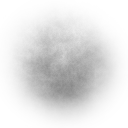
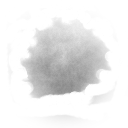
fixed texture alpha

Changed region(s): [[0.125, 0.2812, 0.9062, 0.9062], [0.2812, 0.1875, 0.375, 0.25], [0.375, 0.1562, 0.4062, 0.1875]]

diff --git a/js/Candela.js b/js/Candela.js
@@ -3,6 +3,14 @@ var container, scene, camera, renderer, controls, stats, uniforms_flame, uniform
 var TTL = 3.5;
 var Speed = 10.0;
 var going = true;
+var originalAlpha = 0.6;
+var testAlphaFlame = 0.6;
+var testAlphaSmoke = 0.6;
+var numFlameParticles = 50000;
+var numSmokeParticles = 50000;
+var flameStartingHeight = 101;
+var smokeStartingHeight = 115;
+
 
 $(document).ready(function(){
     var clock = new THREE.Clock();
@@ -55,7 +63,7 @@ function init()
 
     // CONTROLS
     controls = new THREE.OrbitControls( camera, renderer.domElement );
-    controls.minDistance = 100;
+    controls.minDistance = 50;
     controls.maxDistance = 500;
     
     // STATS
@@ -122,8 +130,8 @@ function init()
     var smokeGeometry = new THREE.BufferGeometry();
 
     // Generate initial particle positions
-    var flameData = createFlameParticles(40000);
-    var smokeData = createSmokeParticles(40000);
+    var flameData = createFlameParticles(numFlameParticles);
+    var smokeData = createSmokeParticles(numSmokeParticles);
 
     // add the position to the vertex shader
     flameGeometry.addAttribute('position', new THREE.BufferAttribute(flameData.positions, 3));
@@ -149,7 +157,7 @@ function init()
     uniforms_flame = {
         t: {value: 0.0},
         texture: { type: 't', value: new THREE.TextureLoader().load("images/flame.png") },
-        customOpacity: {value: 0.7},
+        customOpacity: {value: 1.0},
         customColor: {value: flameColor},
         timeLife: {value: TTL},
         speed: {value: Speed},
@@ -163,7 +171,7 @@ function init()
     uniforms_smoke = {
         t: {value: 0.0},
         texture: { type: 't', value: new THREE.TextureLoader().load("images/smokeparticle.png") },
-        customOpacity: {value: 0.7},
+        customOpacity: {value: 1.0},
         customColor: {value: smokeColor},
         timeLife: {value: TTL},
         speed: {value: Speed},
@@ -174,6 +182,8 @@ function init()
             vertexShader: flameVertexShader,
             fragmentShader: flameFragmentShader,
             blending: THREE.AdditiveBlending,
+            side: THREE.DoubleSide,
+            alphaTest: testAlphaFlame,
             transparent: true,
         });
     var smokeMaterial = new THREE.ShaderMaterial({
@@ -181,15 +191,15 @@ function init()
             vertexShader: smokeVertexShader,
             fragmentShader: smokeFragmentShader,
             blending: THREE.AdditiveBlending,
+            side: THREE.DoubleSide,
+            alphaTest: testAlphaSmoke,
             transparent: true,
         });
 
-    var flame = new THREE.PointCloud( flameGeometry, flameMaterial );
+    var flame = new THREE.Points(flameGeometry, flameMaterial);
+    var smoke = new THREE.Points(smokeGeometry, smokeMaterial);
     flame.sortParticles = true; // the default is false
-    var smoke = new THREE.PointCloud( smokeGeometry, smokeMaterial );
     smoke.sortParticles = true; // the default is false
-    // var flame = new THREE.Points(flameGeometry, flameMaterial);
-    // var smoke = new THREE.Points(smokeGeometry, smokeMaterial);
 
     scene.add(flame);
     scene.add(smoke);
@@ -197,13 +207,13 @@ function init()
     // GUI
     
     var guiControls = new function (){ 
-        this.FlameParticles = 1000;
-        this.SmokeParticles = 1000;
+        this.FlameParticles = numFlameParticles;
+        this.SmokeParticles = numSmokeParticles;
         this.FlameDimension = 8.0;
         this.timeLife = 3.5;
         this.FlameOpacity = 1.0;
         this.SmokeDimension = 8.0
-        this.SmokeOpacity = 0.5;
+        this.SmokeOpacity = 1.0;
         this.Time_Steam = 2.5;
         this.toggleMovement = function(){
             going = !going;
@@ -228,6 +238,7 @@ function init()
     });
     flameFolder.add(guiControls, 'FlameOpacity', 0, 1).onFinishChange(function(newValue){
         uniforms_flame.customOpacity.value = newValue;
+        testAlphaFlame = originalAlpha * newValue;
 
     });
     smokeFolder.add(guiControls, 'SmokeParticles', 100, 100000).onFinishChange(function(){
@@ -237,7 +248,8 @@ function init()
         
     });
     smokeFolder.add(guiControls, 'SmokeOpacity', 0, 1).onFinishChange(function(newValue){
-		uniforms_smoke.customOpacity.value = newValue;    
+		uniforms_smoke.customOpacity.value = newValue;
+        testAlphaSmoke = originalAlpha * newValue;   
 	});
 
 
@@ -264,7 +276,7 @@ function createFlameParticles(n){
     var pos = new Float32Array(n*3);
     for (i=0; i < n; i++){
         pos[i*3] = 0;
-        pos[i*3+1] = 100;
+        pos[i*3+1] = flameStartingHeight;
         pos[i*3+2] = 0;
     }
 
@@ -293,7 +305,7 @@ function createSmokeParticles(n){
     var pos = new Float32Array(n*3);
     for (i=0; i < n; i++){
         pos[i*3] = 0;
-        pos[i*3+1] = 120;
+        pos[i*3+1] = smokeStartingHeight;
         pos[i*3+2] = 0;
     }
 

diff --git a/index.html b/index.html
@@ -103,12 +103,15 @@
 			float c = cos(vAngle);
 			float s = sin(vAngle);
 			vec2 circCoord = 2.0 * gl_PointCoord - 1.0;
-			if (dot(circCoord, circCoord) > 0.8) {
+			if (dot(circCoord, circCoord) > 1.0) {
     			discard;
 			}
 			vec2 rotatedUV = vec2(c * (gl_PointCoord.x - 0.5) + s * (gl_PointCoord.y - 0.5) + 0.5,
 			c * (gl_PointCoord.y - 0.5) - s * (gl_PointCoord.x - 0.5) + 0.5);
 			vec4 rotatedTexture = texture2D( texture,  rotatedUV );
+			if(rotatedTexture.a < 0.3){
+				discard;
+			}
 			gl_FragColor = gl_FragColor * rotatedTexture;
 		}
 	</script>
@@ -125,12 +128,15 @@
 			float c = cos(vAngle);
 			float s = sin(vAngle);
 			vec2 circCoord = 2.0 * gl_PointCoord - 1.0;
-			if (dot(circCoord, circCoord) > 0.8) {
+			if (dot(circCoord, circCoord) > 1.0) {
     			discard;
 			}
 			vec2 rotatedUV = vec2(c * (gl_PointCoord.x - 0.5) + s * (gl_PointCoord.y - 0.5) + 0.5,
 			c * (gl_PointCoord.y - 0.5) - s * (gl_PointCoord.x - 0.5) + 0.5);
 			vec4 rotatedTexture = texture2D( texture,  rotatedUV );
+			if(rotatedTexture.a < 0.3){
+				discard;
+			}
 			gl_FragColor = gl_FragColor * rotatedTexture;
 		}
 	</script>
